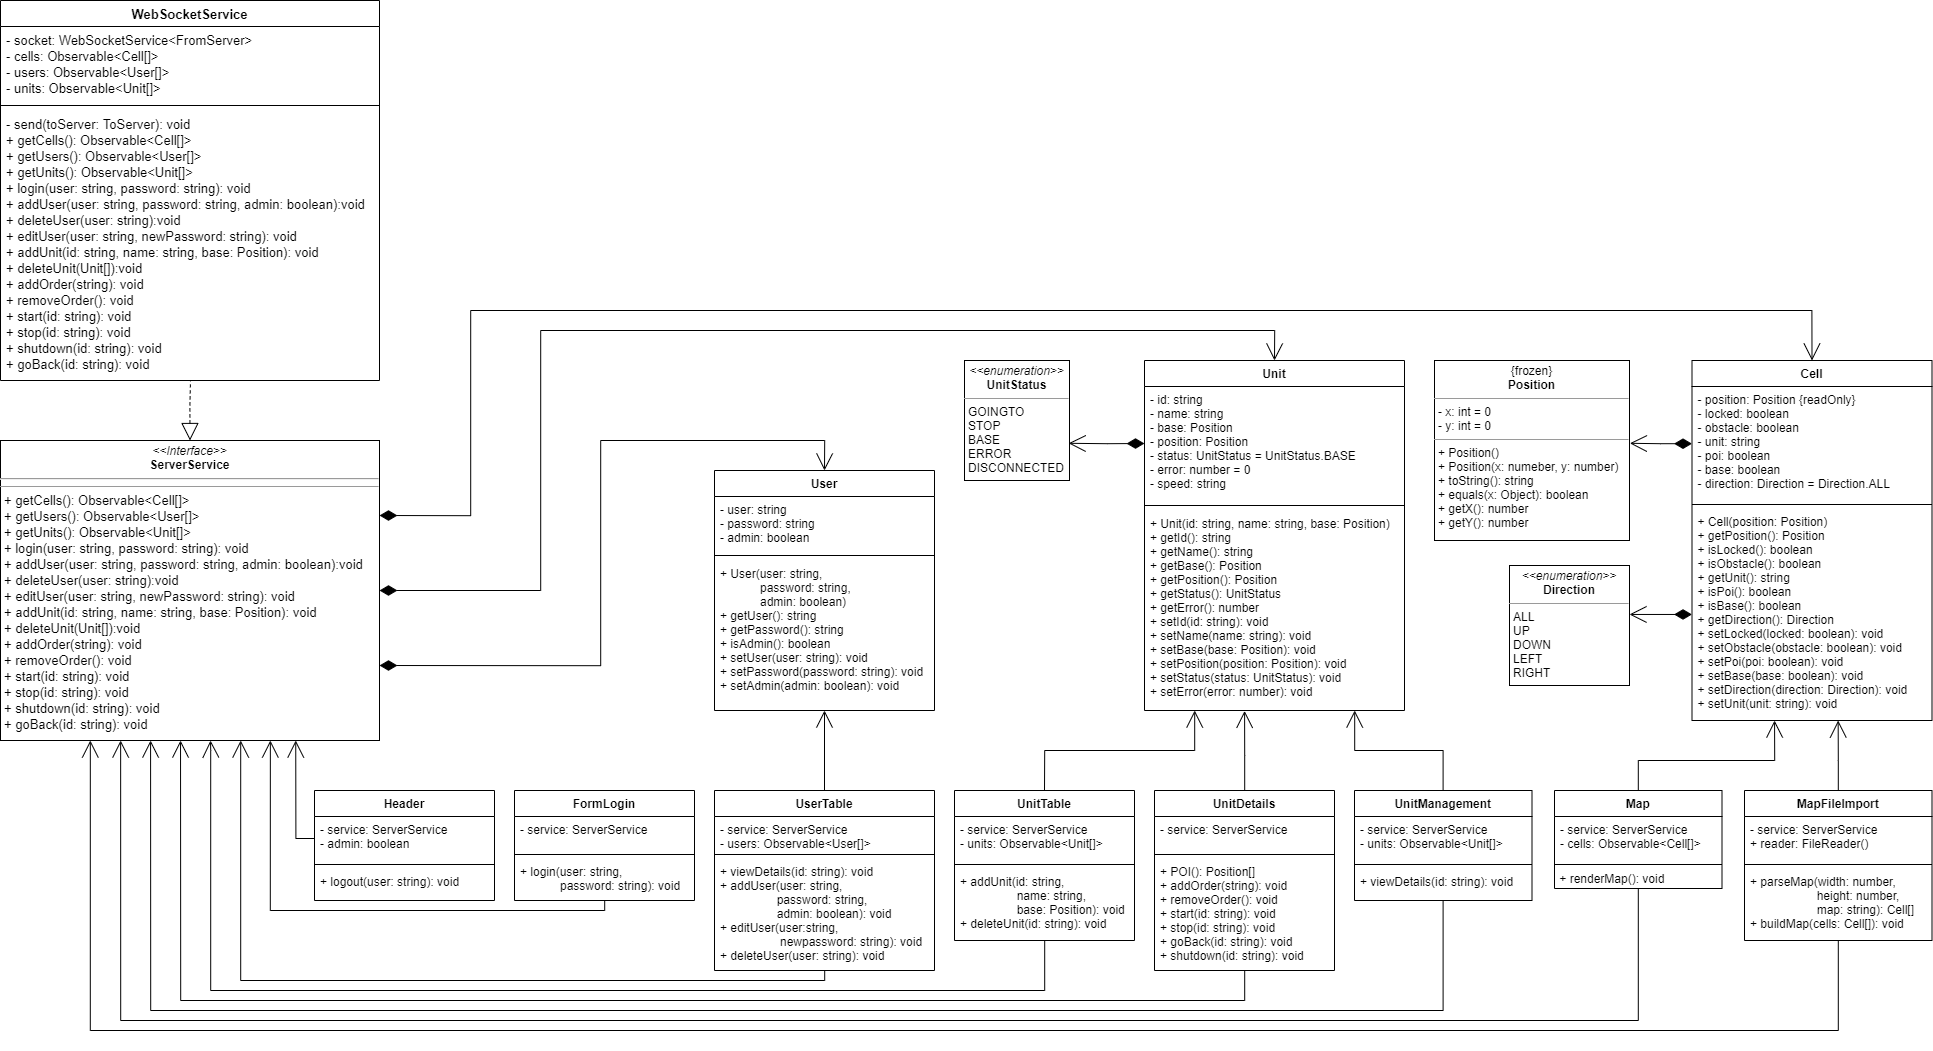
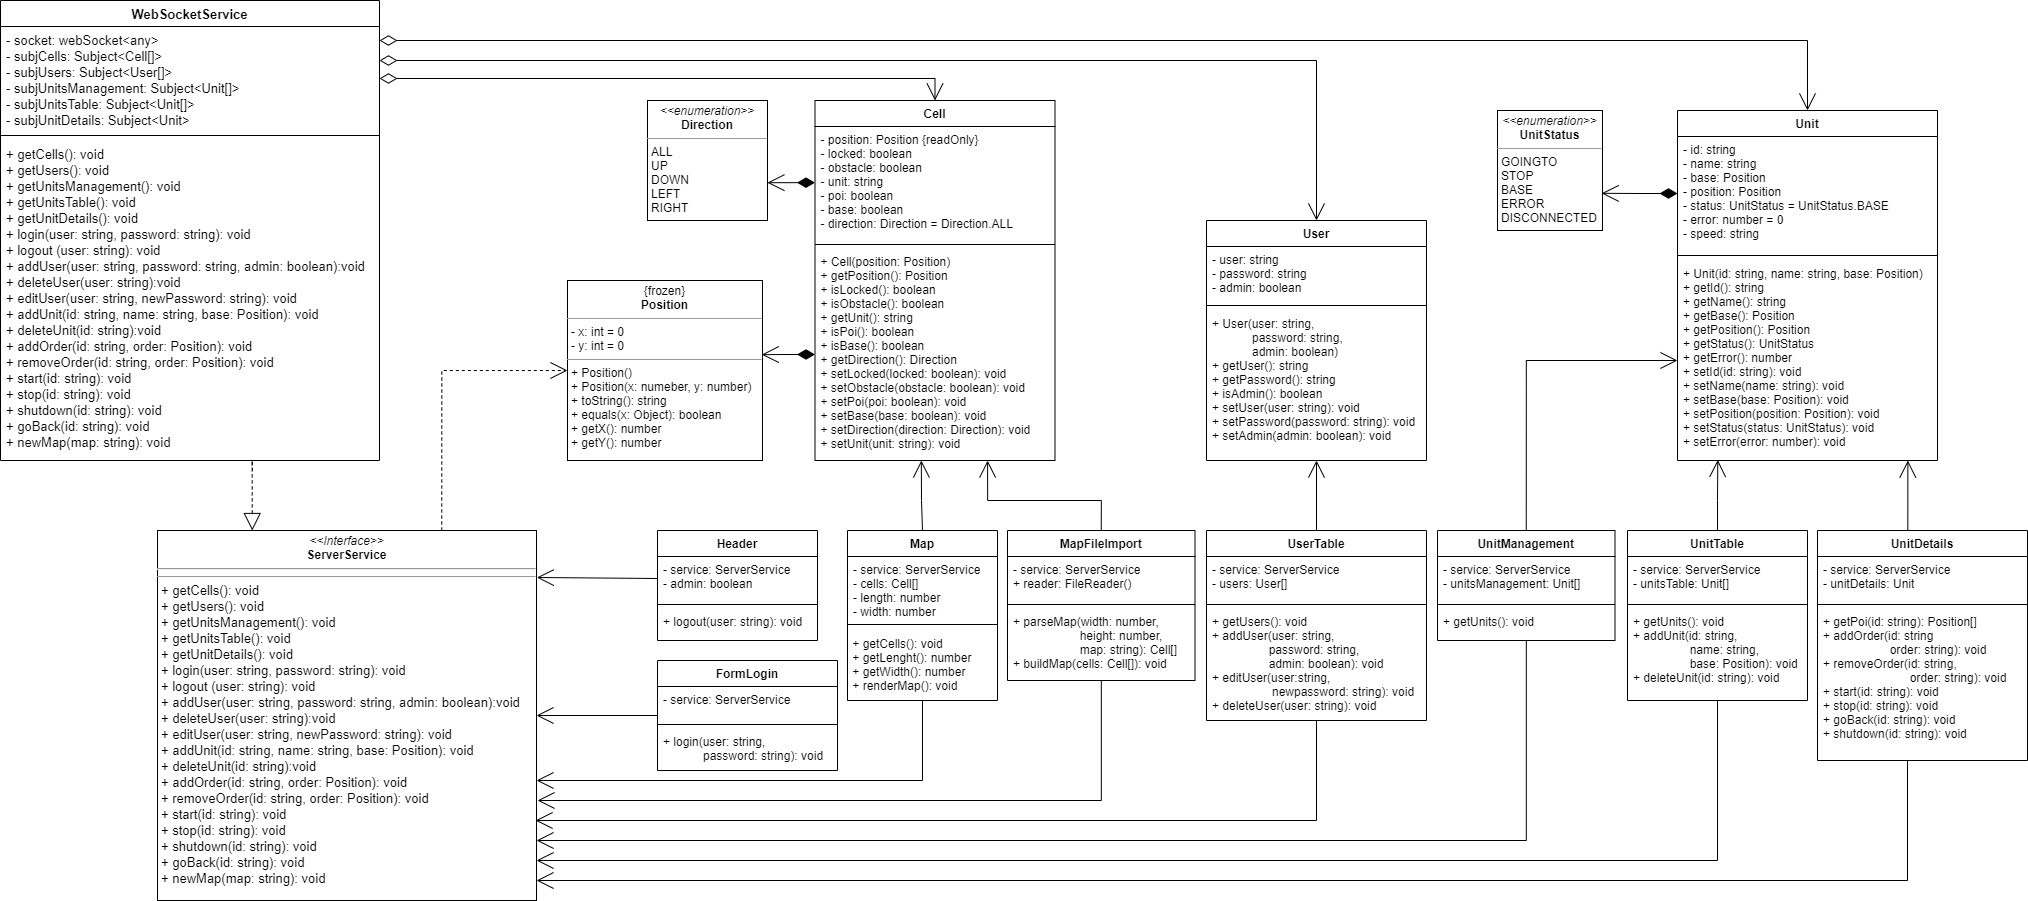
revisione e aggiunta immagini ui

diff --git a/esterni/allegato_tecnico/res/sez4_arch_ui.tex b/esterni/allegato_tecnico/res/sez4_arch_ui.tex
@@ -1,25 +1,25 @@
-L'interfaccia grafica è realizzata tramite il framework \glock{Angular}, quindi il design architetturale utilizzato è il \textit{Model View ViewModel} (\textit{MVVM}) che è intrinseco nel framework stesso. \\
+L'interfaccia grafica è realizzata tramite il framework \glock{Angular}, per questo motivo, il design architetturale utilizzato è il \textit{Model View ViewModel} (\textit{MVVM}) che è intrinseco nel framework stesso. \\
 La comunicazione con il server avviene tramite \glock{WebSocket} ed è dunque asincrona. 
 Inoltre, per garantire l'estensibilità del codice, il servizio \textit{WebSocketService} implementa l'interfaccia \textit{ServerService} che mette a disposizione i metodi per interfacciarsi con il server. In questo modo un cambio di tecnologia, ad esempio passando a richieste \glock{HTTP}, non comporterebbe uno stravolgimento dell'architettura. \\
-Per lo stesso motivo sono previste delle interfacce per rappresentare i vari tipi di messaggi che vengono ricevuti dal server, che vengono successivamente implementate per specificarne le caratteristiche. \\
-Si è pianificato di avere un componente per ogni funzionalità principale che l'interfaccia mette a disposizione all'utente. L'aggiornamento dei dati tra gli \glock{Angular Components} ed il \glock{WebSocket} avviene tramite l'uso dei \glock{Subject}, indirizzando i dati stessi ai componenti che prevedono appositi campi dati. \\
+Per lo stesso motivo sono previste delle interfacce per rappresentare i vari tipi di messaggi che vengono ricevuti dal server, successivamente implementate per specificarne le caratteristiche. \\
+Ogni componente che fa parte del \textit{ViewModel} rappresenta una funzionalità principale che l'interfaccia mette a disposizione all'utente.\\
+ L'aggiornamento dei dati tra gli \glock{Angular Components} ed il \glock{WebSocket} avviene tramite l'uso dei \glock{Subject} (uno per tipo) al'interno di quest'ultimo; indirizzando tali dati  ai componenti che prevedono appositi campi dati per ricevere le informazioni.\\
 \newline
-Di seguito illustriamo due diagrammi delle classi: il primo per descrivere il legame tra \textit{Model} e \textit{Viewmodel}, con la struttura dei vari \glock{Angular Components}, mentre la parte di \textit{View} comprende i templates degli \glock{Angular Components}, e quindi la struttura del codice \glock{HTML}.
-Il secondo invece rappresenta i messaggi che vengono inviati e ricevuti dal server.
-
+Di seguito illustriamo due diagrammi delle classi: il primo per descrivere il legame tra \textit{Model} e \textit{Viewmodel}, con la struttura dei vari \glock{Angular Components}, mentre la parte di \textit{View}; che comprende i templates degli \glock{Angular Components}, non viene qui rappresentata perché la struttura del codice è \glock{HTML}.
+Il secondo, invece, rappresenta i messaggi che vengono inviati e ricevuti dal server.
 \newpage
 
-\begin{landscape}
-	\begin{figure}[h!]
-		\includegraphics[width=25.5cm]{img/ui_modelview.png}
-		\caption{Architettura dell'interfaccia - Model-View Model}
-	\end{figure}
-\end{landscape}
-\newpage
+%\begin{landscape}
+%	\begin{figure}[h!]
+%		\includegraphics[width=25.5cm]{img/ui_modelview.png}
+%		\caption{Architettura dell'interfaccia - Model-View Model}
+%	\end{figure}
+%\end{landscape}
+%\newpage
 
-\begin{landscape}
-	\begin{figure}[h!]
-		\includegraphics[width=25.5cm]{img/ui_messaggi.png}
-		\caption{Architettura dell'interfaccia - Messaggi}
-	\end{figure}
-\end{landscape}
+%\begin{landscape}
+%	\begin{figure}[h!]
+%		\includegraphics[width=25.5cm]{img/ui_messaggi.png}
+%		\caption{Architettura dell'interfaccia - Messaggi}
+%	\end{figure}
+%\end{landscape}
